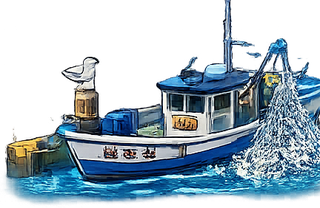
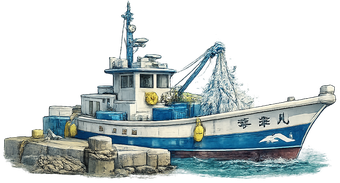
建物・船を高品質版に差し替え＋調理場を「しらす丼食堂」に
追加提供のイラストから抽出して差し替え。
- 調理場：倉庫→「しらす丼」食堂の専用建物に変更（bld-cook）
- 加工場：トラック付きの立派な加工場に差し替え
- 船：小型=大宝丸／大型=宝来丸 に差し替え
- 使わない倉庫画像・大判ソース画像を削除

https://claude.ai/code/session_01Gvm5k9uzHaqtb24QszT3VA

diff --git a/game/game.js b/game/game.js
@@ -98,7 +98,7 @@
     raw: loadImg("assets/raw-shirasu.png"), pack: loadImg("assets/pack-shirasu.png"), bowl: loadImg("assets/shirasu-bowl.png"),
     fisher: loadImg("assets/fisher.png"),
     boatSmall: loadImg("assets/boat-small.png"), boatLarge: loadImg("assets/boat-large.png"),
-    bldProcess: loadImg("assets/bld-process.png"), bldCook: loadImg("assets/bld-warehouse.png"), bldSales: loadImg("assets/bld-sales.png"),
+    bldProcess: loadImg("assets/bld-process.png"), bldCook: loadImg("assets/bld-cook.png"), bldSales: loadImg("assets/bld-sales.png"),
     schoolSmall: loadImg("assets/school-small.png"), schoolLarge: loadImg("assets/school-large.png"),
     cust: [loadImg("assets/customer-a.png"), loadImg("assets/customer-b.png"), loadImg("assets/customer-c.png"), loadImg("assets/customer-d.png")],
   };